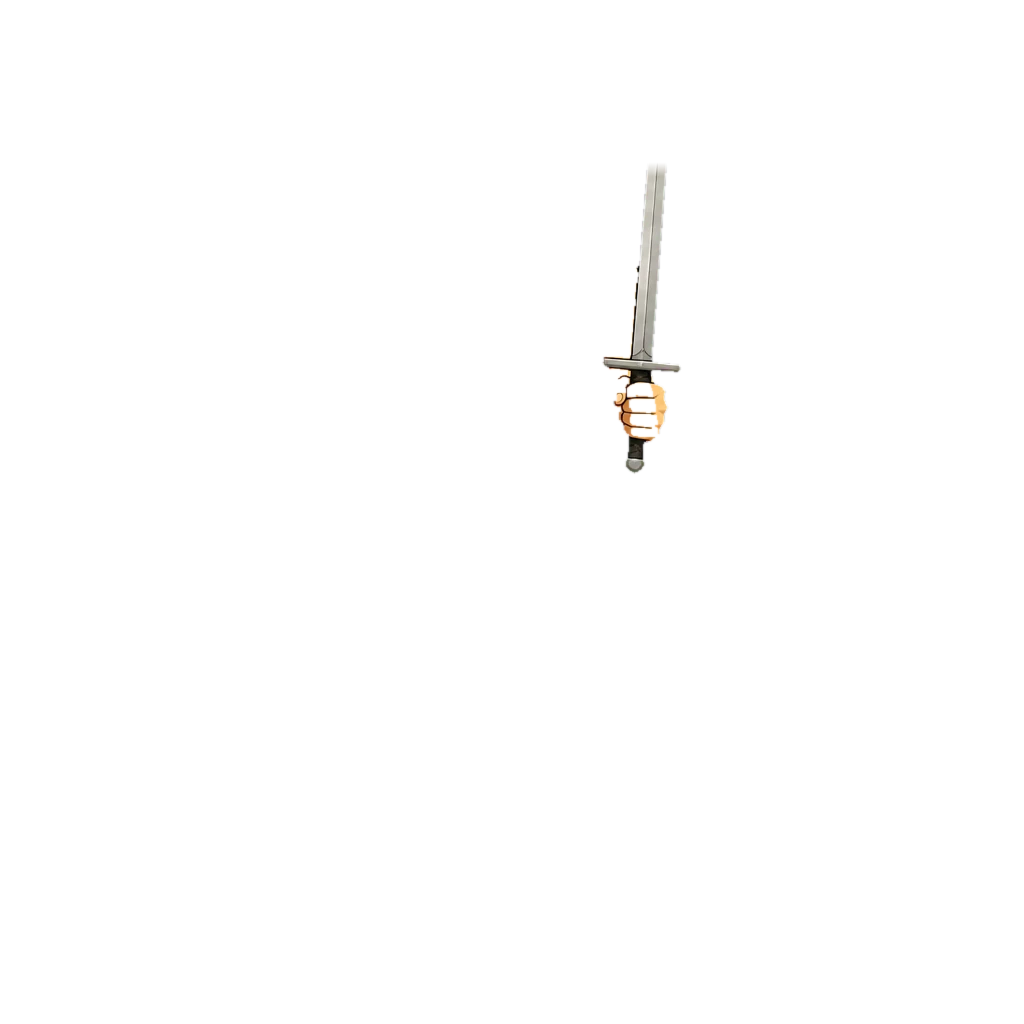
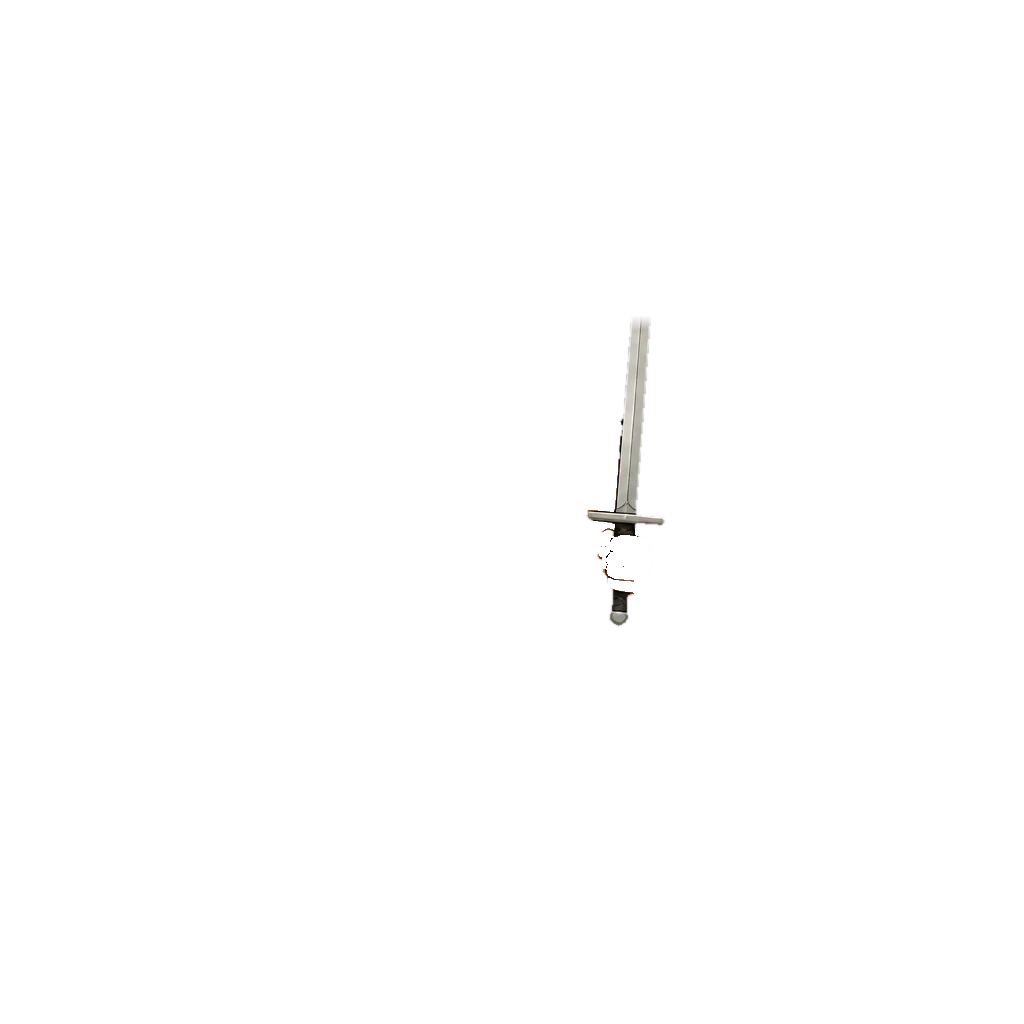
La espada de entrenamiento tambien, que es la que todos ven
Era una de las tres que quedaban con dos manos, y resulta que es el arma
inicial: el unico peso que un aprendiz nuevo puede equipar. Dejarla rota
era dejar el arreglo donde nadie lo ve.

Su puno es demasiado pequeno para hacer de mano -684 px frente a los
2.349 de la mano del cuerpo- asi que apagar la del cuerpo dejaba el brazo
cortado, 615 px de muneca al aire. Por eso se habia quedado fuera.

Pero al reves si funciona: si el dibujo es pequeno se borra entero y lo
tapa la mano del cuerpo, que en ese caso se sigue pintando, y que va
encima del arma. Sin capa tenible y sin tocar el cliente: la lista de
Arte.conPunoPropio no cambia, porque ahi la mano la pone el cuerpo.

Lo que destrabo esto fue corregir una medida que estaba mal desde el
principio: un agujero en la pieza SOLO se ve si cae sobre el fondo. Donde
hay cuerpo detras deja ver el brazo, que es justo lo que se quiere. Con
el criterio viejo -agujero total- esta via se descartaba con 1.185 px;
con el bueno son 640 y no se le nota nada.

Queda una sola pieza con dos manos, arco_bosque_antiguo masculino, a la
que no se le encuentra puno reconocible.

Changed region(s): [[0.5625, 0.1562, 0.6562, 0.5312], [0.5938, 0.5625, 0.625, 0.625]]

diff --git a/scripts/quitar_punos.py b/scripts/quitar_punos.py
@@ -214,6 +214,18 @@ MUNON_AL_AIRE = 260
 #: Qué parte de la mano cuenta como muñeca, desde su borde superior.
 ALTO_DE_LA_MUNECA = 45
 
+#: Cuánto agujero se tolera cuando la salida es borrar en vez de teñir.
+#:
+#: Y se mide **solo donde se ve**: un agujero en el arma que cae sobre el cuerpo
+#: deja ver el brazo, que es justo lo que se quiere; solo canta el que cae sobre
+#: el fondo. Tardé en darme cuenta y estuve descartando esta vía con el número
+#: equivocado.
+#:
+#: Mil cien porque `espada_entrenamiento` masculina deja 873 y, mirada a tamaño
+#: real, no se le nota nada. Las demás piezas ni llegan aquí: se arreglan por la
+#: vía buena, la de teñir.
+HUECO_QUE_SE_VE = 1100
+
 #: Y solo en las piezas donde el color signifique algo.
 #:
 #: Este paso borra por color lo pequeño que esté pegado al puño, y en una pieza
@@ -381,6 +393,16 @@ def _normalizar(rgb: np.ndarray, mascara: np.ndarray) -> np.ndarray:
     return salida.astype(np.uint8)
 
 
+def _silueta(figura: str, lado: str) -> np.ndarray:
+    """Lo que hay dibujado detrás del arma: el cuerpo y la mano de ese lado.
+
+    Un agujero en la pieza que caiga aquí no se ve —deja ver el brazo—, así que
+    esto es lo que separa un agujero real de uno inofensivo.
+    """
+    cuerpo = np.array(Image.open(CUERPOS / f"{figura}_sin_manos.webp").convert("RGBA"))
+    return (cuerpo[:, :, 3] > OPACO) | mascara_de_la_mano(figura, lado)
+
+
 def _banda_de_muneca(figura: str, lado: str) -> np.ndarray:
     """La parte alta de la mano del cuerpo: si queda al aire, se ve el corte."""
     mano = mascara_de_la_mano(figura, lado)
@@ -512,17 +534,45 @@ def procesar(origen: pathlib.Path, figura: str, simular: bool) -> dict[str, obje
     # contando solo lo que de verdad va a quedar dibujado.
     queda = _correr((a[:, :, 3] > OPACO) & ~de_sobra, dx, dy)
     munon = int((_banda_de_muneca(figura, lado) & ~_correr(mano, dx, dy) & ~queda).sum())
-    if munon > MUNON_AL_AIRE:
-        return {
-            "pieza": origen.stem,
-            "estado": f"dejaría {munon} px de muñeca al aire; se deja como está",
-        }
 
     movida = _mover(a, dx, dy)
     if movida is None:
         return {
             "pieza": origen.stem,
             "estado": f"no cabe movida ({dx:+d},{dy:+d}); se deja como está",
+        }
+
+    if munon > MUNON_AL_AIRE:
+        # Su puño es demasiado pequeño para hacer de mano: apagar la del cuerpo
+        # dejaría el brazo cortado. Pero **al revés sí funciona**: si el dibujo
+        # es pequeño se borra entero y lo tapa la mano del cuerpo, que en ese
+        # caso se sigue pintando —y va encima del arma, que es lo que hace falta
+        # para que parezca que la agarra—.
+        #
+        # El agujero que deja el borrado solo se ve donde cae sobre el fondo:
+        # donde hay cuerpo detrás, deja ver el brazo, que es lo que se quiere.
+        # Ese es el número que decide, y no el tamaño del agujero.
+        visible = int((_correr(mano | de_sobra, dx, dy) & ~_silueta(figura, lado)).sum())
+        if visible > HUECO_QUE_SE_VE:
+            return {
+                "pieza": origen.stem,
+                "estado": (
+                    f"su puño no puede hacer de mano ({munon} px de muñeca al aire) "
+                    f"y borrarlo deja {visible} px de agujero a la vista; se deja como está"
+                ),
+            }
+        if not simular:
+            borrada = movida.copy()
+            borrada[:, :, 3] = np.where(_correr(mano | de_sobra, dx, dy), 0, borrada[:, :, 3])
+            Image.fromarray(borrada).save(origen)
+        return {
+            "pieza": origen.stem,
+            "estado": (
+                f"puño {int(puno.sum())} px, demasiado pequeño para hacer de mano: "
+                f"se borra y la tapa la del cuerpo, agujero a la vista {visible} px, "
+                f"movida ({dx:+d},{dy:+d})"
+            ),
+            "hecha": True,
         }
 
     # El puño sale a su propia capa, normalizado para poder teñirlo, y se borra
